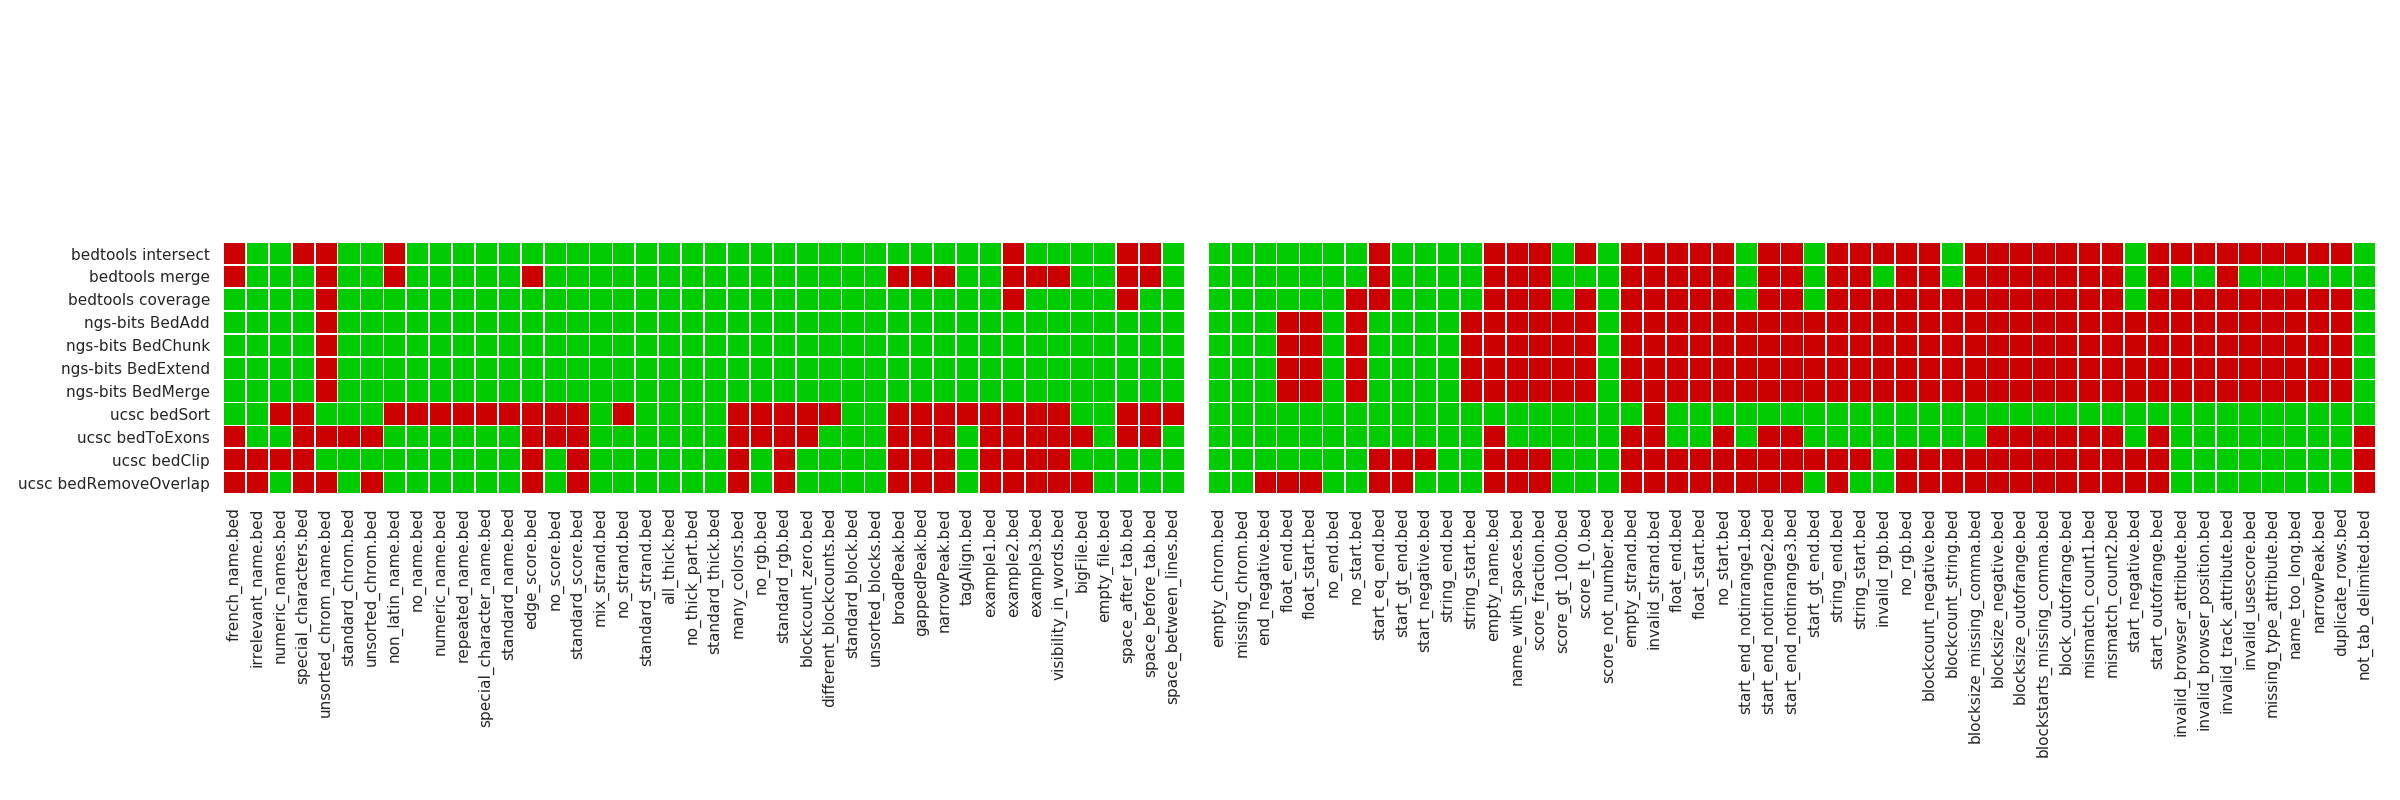
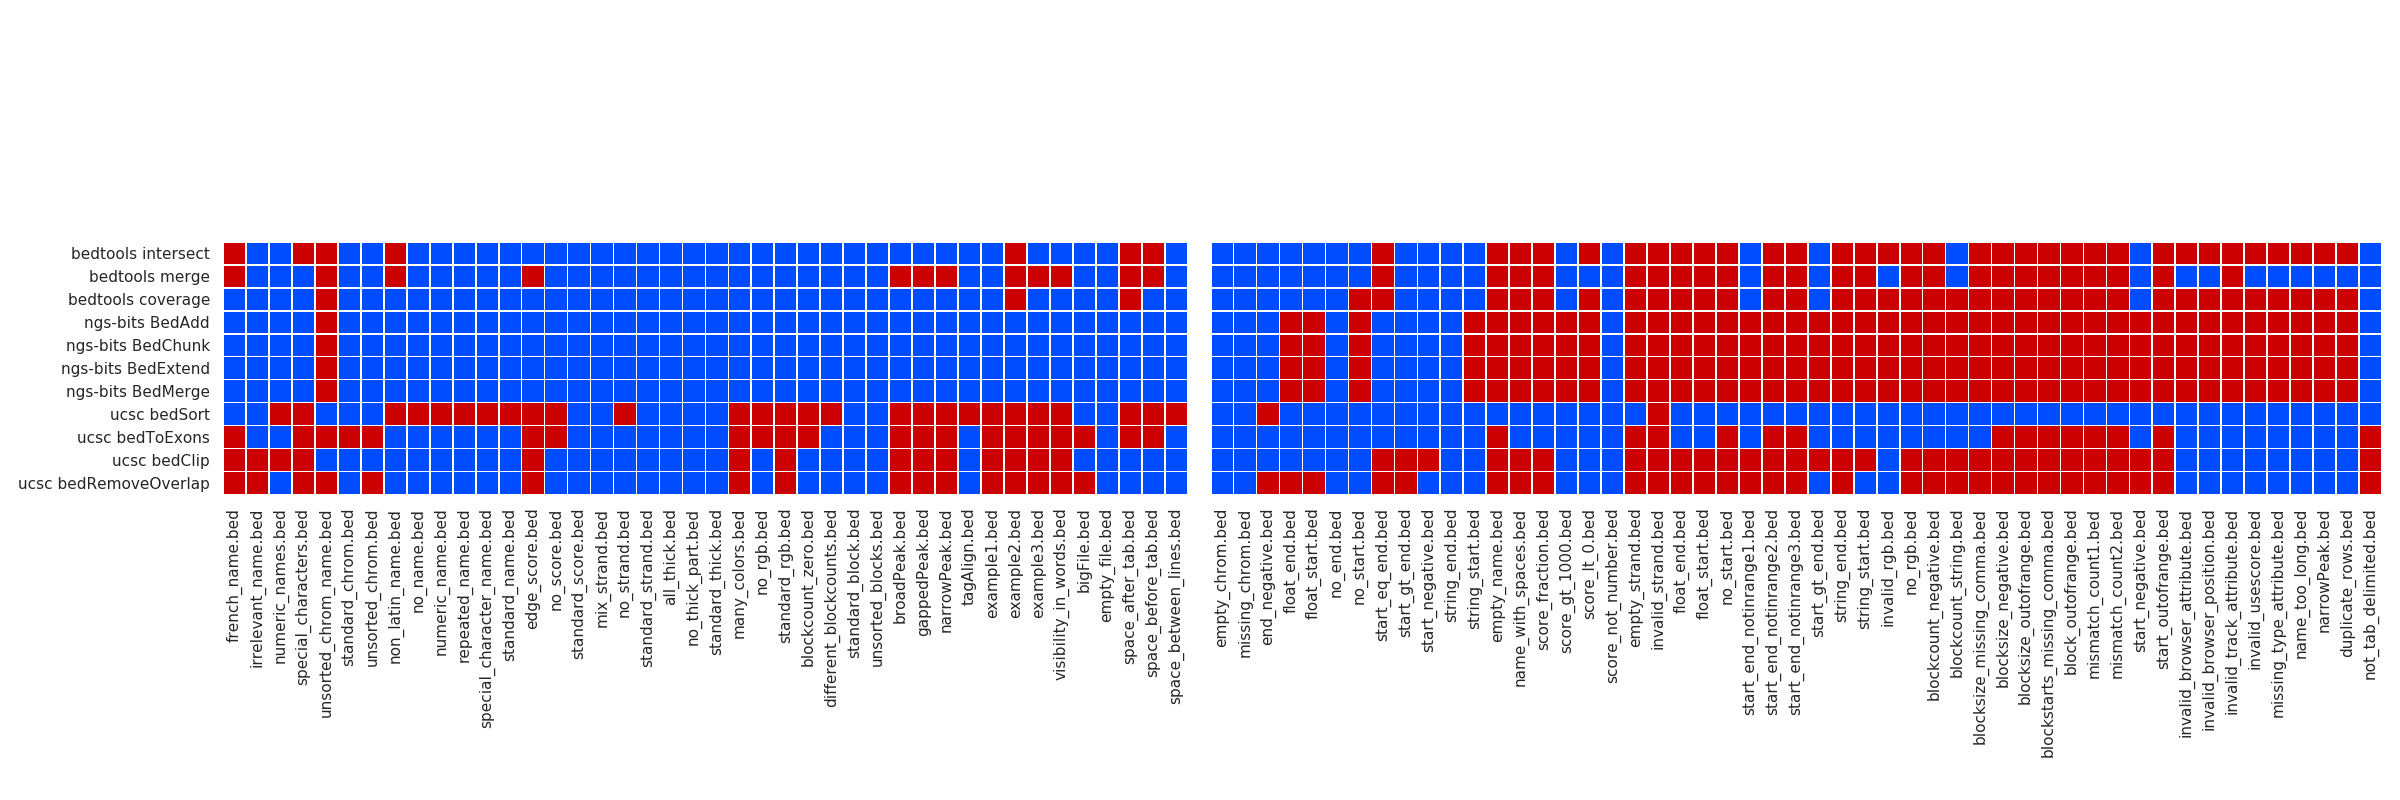
work

Changed region(s): [[0.0312, 0.2812, 1.0, 0.9375], [0.1875, 0.875, 0.2188, 0.9062]]

diff --git a/bed/run_all.py b/bed/run_all.py
@@ -21,11 +21,11 @@ cdict = {'red':  ((0.0, 0.8, 0.8),
 
         'green': ((0.0, 0.0, 0.0),
                   (0.5, 1.0, 1.0),
-                  (1.0, 0.8, 0.8)),
+                  (1.0, 0.3, 0.3)),
 
-        'blue':  ((0.0, 0.0, 0.0),
+        'blue': ((0.0, 0.0, 0.0),
                   (0.5, 1.0, 1.0),
-                  (1.0, 0.0, 0.0))
+                  (1.0, 1.0, 1.0))
        }
 
 
@@ -65,7 +65,7 @@ def run_all(verbose=False, failed_good_file="out/failed_good.txt", passed_bad_fi
             if python_versions[program] != version:
                 continue
             if program != 'ucsc' and program != 'bedtools' and program != 'ngs-bits': continue
-            
+
             commands = tool[program]
             
             for command, execution in commands.items():
